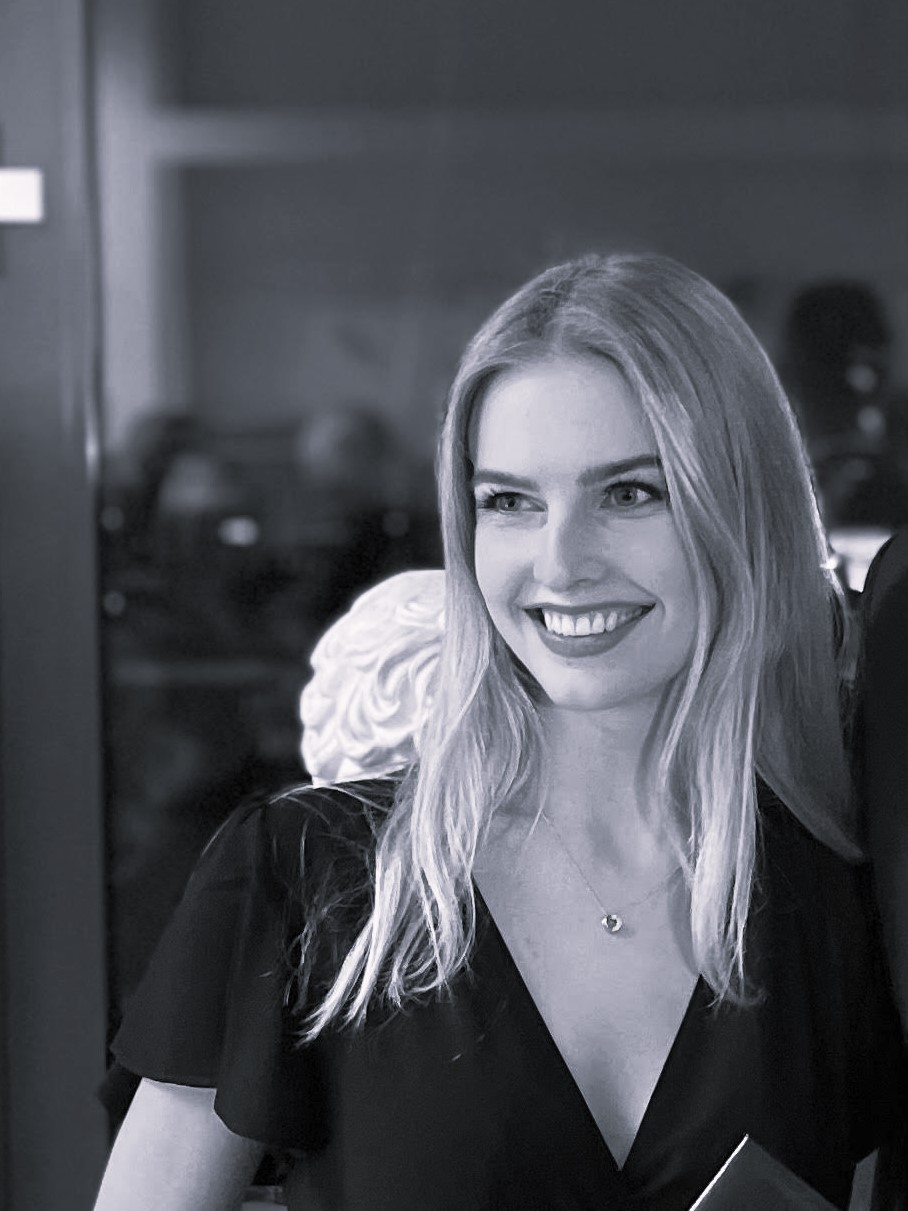
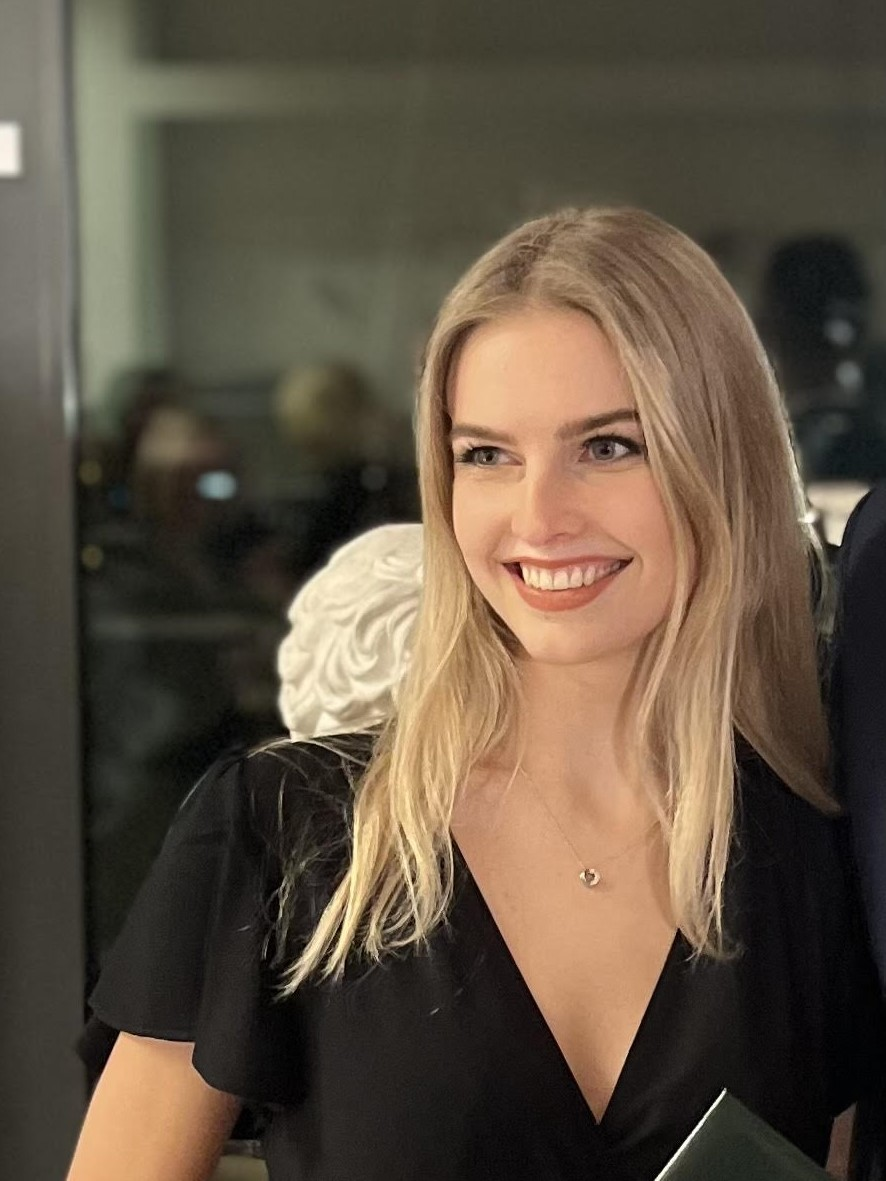
new

diff --git a/about.html b/about.html
@@ -67,13 +67,13 @@
             </div>
             <div class="skills-section">
                 <div class="skills">
-                    <img src="0 pictures/rita bw.jpg" class="portrait">
+                    <img src="0 pictures/rita new cut.jpg" class="portrait">
                     <h2>Rita Lagzdiņa</h2>
                     <h3>Dibinātāja & Dizainere</h3>
                     <p>Dizaina studijas Harmonia Art dibinātāja, radoša personība, jau kopš bērnības ir bijusi cieši saistīta ar mākslu. Viņas dabiskā interese par estētiku un harmoniju veidojusi unikālu redzējumu, kas atspoguļojas ikvienā projektā. Ritai māksla ir veids, kā radīt vidi, kas iedvesmo, nomierina un rada līdzsvaru. </p>
                 </div>
                 <div class="software-skills">
-                    <img src="0 pictures/andis.jpg" alt="Portrait" class="portrait">
+                    <img src="0 pictures/andis new cut.jpg" alt="Portrait" class="portrait">
                     <h2>Andis Lagzdiņš</h2>
                     <h3>Projektu Vadītājs</h3>
                     <p>Vadījis daudzus lielus un nozīmīgus būvniecības projektus. Viņa darba pieredze ietver ne tikai tehniskās zināšanas, bet arī spēju veiksmīgi pārvaldīt sarežģītus projektus, kas ietver gan budžeta, gan termiņu, gan kvalitātes kontroles nodrošināšanu. Andis ir pierādījis sevi kā izcilu līderi, kas spēj efektīvi koordinēt darbu komandā, risināt problēmas, kā arī nodrošināt projektu izpildi atbilstoši prasībām un standartiem.</p>
